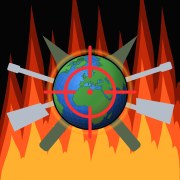
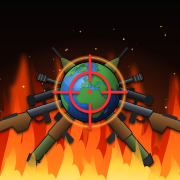
WorldWarZones: nieuw icoon met realistische wapens en vuur
Claude-Session: https://claude.ai/code/session_01WyNZMf3wujBRWFzZVY2XSK

diff --git a/worldwarzones/index.html b/worldwarzones/index.html
@@ -7,7 +7,7 @@
 <meta name="apple-mobile-web-app-title" content="WorldWarZones">
 <meta name="application-name" content="WorldWarZones">
 <meta name="theme-color" content="#050505">
-<link rel="apple-touch-icon" href="icon-180.png">
+<link rel="apple-touch-icon" href="icon-180.png?v=2">
 <link rel="icon" type="image/svg+xml" href="icon.svg">
 <link rel="manifest" href="manifest.webmanifest">
 <style>
@@ -25,7 +25,7 @@
 </head>
 <body>
 <main>
-  <img src="icon-180.png" alt="">
+  <img src="icon-180.png?v=2" alt="">
   <h1>WorldWarZones</h1>
   <p id="msg">Verover 80% van de wereld.</p>
   <a class="go" id="go" href="https://claude.ai/artifact/DMy1HB55m8CsWbfsLr1g8J">Open WorldWarZones</a>
